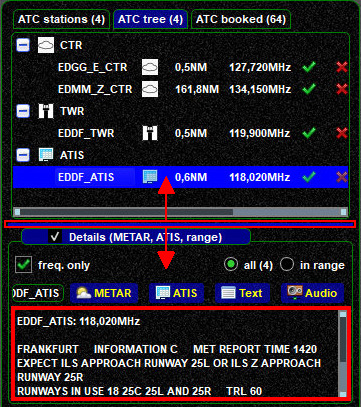
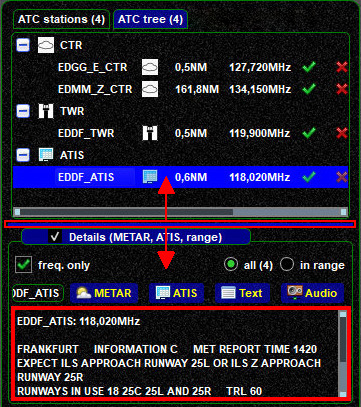
Remove booking overview

Changed region(s): [[0.518, 0.0, 0.8532, 0.0885]]

diff --git a/docs/documentation/swift_gui/atc_page.md b/docs/documentation/swift_gui/atc_page.md
@@ -5,11 +5,10 @@
 
 This page of *swift*GUI will provide you with information about **Air Traffic Controllers** that are **active in the area where you are online**.
 
-You can choose from 3 tabs:
+You can choose from 2 tabs:
 
 * **ATC List**
 * **ATC tree view** (categorized ATC stations)
-* **VATBOOK data** (booked ATC stations).
 
 ## General List
 The first tab will present you with a **general list of ATC stations** that is **sorted by distance** (ascending) between your own position and the primary centers of visibility of air traffic controllers.
@@ -53,9 +52,3 @@ You can
 * **show the (public) text message tab** on the [Text/Chat page](./text_chat_page.md) of the selected ATC
 
 ![](./../../img/manual_swiftgui_atc_contextmenu.jpg){: style="width:50%"}
-
-## ATC Bookings
-*swift* downloads the **latest data from VATBOOK**, an international ATC booking database.
-The list will provide you with ATC stations, dates and start and end times (Another nice way of checking VATBOOK and general VATSIM status data is using [Qutescoop](https://forums.vatsim.net/topic/28027-qutescoop-updated-airspace-and-airport-data-available/)).
-
-![](./../../img/manual_swiftgui_atc_vatbook.jpg){: style="width:50%"}

diff --git a/docs/documentation/swift_gui/settings_page.md b/docs/documentation/swift_gui/settings_page.md
@@ -23,7 +23,7 @@ You will find two Widgets on the GUI labelled ``50%`` and ``100%``, they are qui
 
 ## Network
 The first part is reserved for possible future use.
-In the lower half you can review and change the download interval times for METAR data, VATSIM's network status file (Data file) and VATBOOK (Bookings) data.
+In the lower half you can review and change the download interval times for METAR data and VATSIM's network status file (Data file).
 Avoid choosing very short download intervals to avoid overloading the servers.
 Unless you are experiencing issues, do not alter these values.
 
